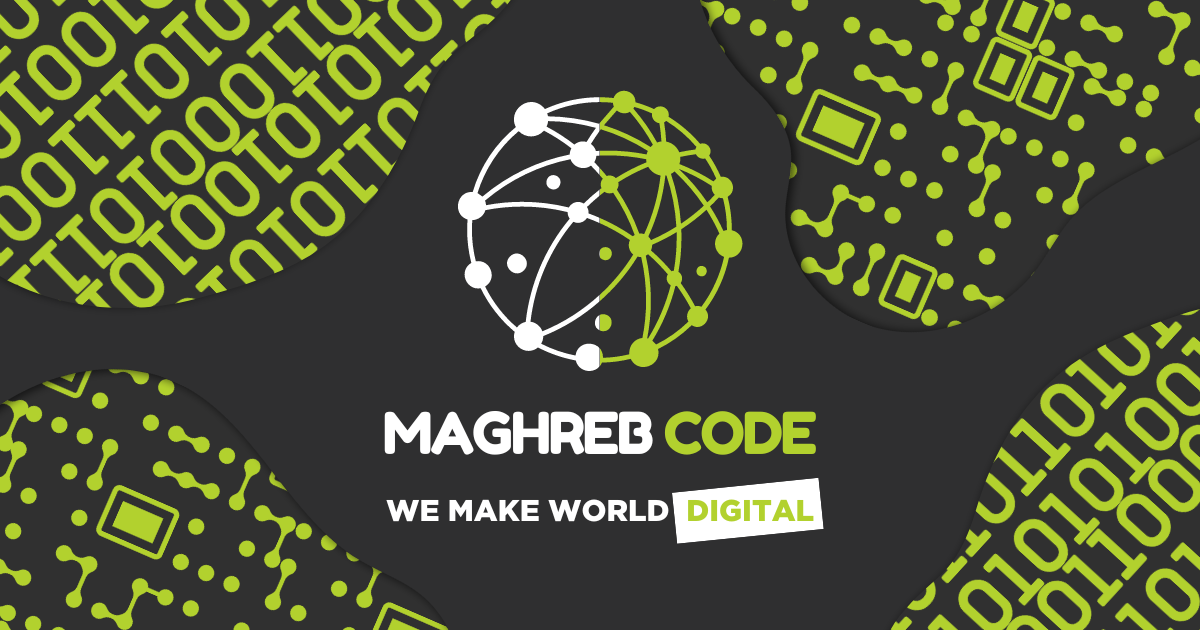
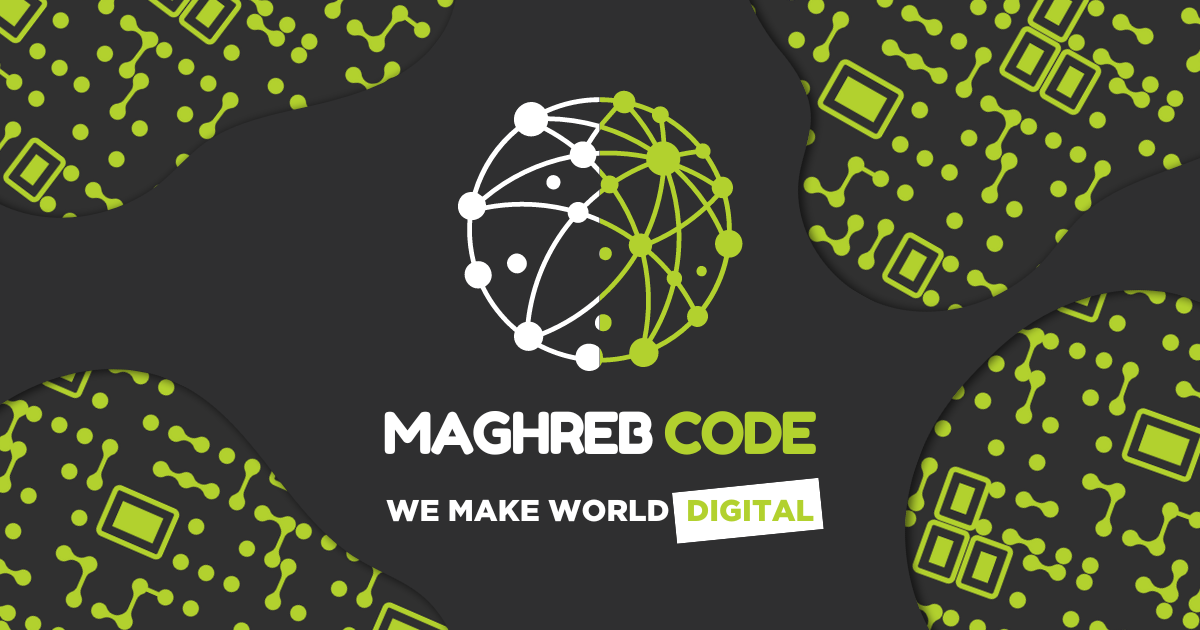
add project

diff --git a/src/components/pages/project.jsx b/src/components/pages/project.jsx
@@ -4,16 +4,16 @@ import Link from "next/link"
 
 export default function Project(){
     const project=[
-        {id:1,link:'https://explorem.net/en',code:['Nextjs','TailwindCSS','Figma','Prisma','MongoDB'],name:'Explorem SARL',description:'Explorem is a team of experts providing services in human resources, language training, nursing formation, and coaching on recruitment, management, and training, both in Morocco and abroad.',image:'/project/explorem.png',height:909,width:1920},
-        {id:2,link:'https://innovtech.vercel.app',code:['Nextjs','TailwindCSS','Figma'],name:'InnovTech',description:'InnovTech unifies UCA laboratories to achieve strategic goals, fostering collaboration among researchers. With 14 labs and 5 research teams from 6 UCA institutions across Marrakech, Safi, and Essaouira, InnovTech focuses on creating competitive research teams and establishing a benchmark hub for technological innovation both nationally and globally.',image:'/project/InnovTech.png',height:909,width:1920}
+        {id:2,link:'https://ecotech-depannage.vercel.app/',code:['Nextjs','TailwindCSS','Figma'],name:'Ecotech Depannage',description:"EcoTech Dépannage, votre expert en dépannage à Sarreguemines, France. Vitrier, serrurier, plombier, et électricien, disponibles 7J/7, 24h/24 pour des interventions d'urgence. Contactez-nous au +33 7 71 71 05 13 pour un service rapide.",image:'/project/ecotech-depannage.png',height:909,width:1920},
+        {id:1,link:'https://explorem.net/en',code:['Nextjs','TailwindCSS','Figma','Prisma','MongoDB'],name:'Explorem SARL',description:'Explorem is a team of experts providing services in human resources, language training, nursing formation, and coaching on recruitment, management, and training, both in Morocco and abroad.',image:'/project/explorem.png',height:909,width:1920}
 
     ]
     return(
-        <div id="Our-Project" className=" container flex flex-col gap-16">
-            <h2 className=" text-3xl lg:text-6xl text-center text-white font-semibold">Some Things We&apos;ve <span className=" text-[#B3D12F]">Built</span></h2>
+        <div id="Our-Project" className="  flex flex-col gap-16 py-14  bg-cover bg-blend-screen  bg-[url('/right.png')]">
+            <h2 className="  text-3xl lg:text-6xl text-center text-white font-semibold">Some Things We&apos;ve <span className=" text-[#B3D12F]">Built</span></h2>
             {
                 project.map((ele,index)=>(
-                    <div key={index} className=" flex flex-col-reverse even:lg:flex-row odd:lg:flex-row-reverse items-center justify-between gap-6 bg-[#1E1E1E] rounded p-4">
+                    <div key={index} className="container flex flex-col-reverse even:lg:flex-row odd:lg:flex-row-reverse items-center justify-between gap-6 bg-[#1E1E1E] rounded p-4">
                         <div className=" lg:w-1/2 flex flex-col items-center gap-8 ">
                             <h3 className=" text-2xl lg:text-4xl text-white font-semibold bg-[#B3D12F]  w-fit p-3">{ele.name}</h3>
                             <div className="text-white font-medium text-center lg:text-xl w-fit p-2 ">

diff --git a/src/components/pages/aboutUs.jsx b/src/components/pages/aboutUs.jsx
@@ -1,10 +1,10 @@
 import Image from "next/image";
-import bg from '/public/aboutUs/bg.png'
+import bg from '/public/aboutUs/bg1.png'
 export default function AboutUs(){
     return(
-        <div id="aboutUs" className="bg-[#B3D12F] z-20  flex flex-col items-center justify-center gap-8">
+        <div id="aboutUs" className="bg-[#B3D12F] z-20 py-14  flex flex-col items-center justify-center gap-8">
           
-            <div className=" p-8 container   flex flex-col lg:flex-row justify-between gap-16  items-center">
+            <div className=" p-8 container   flex flex-col xl:flex-row justify-between gap-16  items-center">
                 <Image 
                 src={bg} 
                 width={1000}
@@ -17,7 +17,7 @@ export default function AboutUs(){
                 alt="Maghreb Code"/>
                 <div className=" flex gap-4 flex-col  ">
                     <h2 className="bg-[#fff] text-[#B3D12F] text-center  p-2 font-bold text-3xl lg:text-7xl  capitalize">About Us</h2>
-                    <p className="  text-white  text-3xl  text-center lg:text-left    ">At Maghreb Code, we&apos;re a dedicated team of digital experts with a rich background in web development, logo creation, and web marketing. As a study group at OFPPT, we have honed our skills through various freelance projects, delivering high-quality websites and innovative solutions. In 2024, we established Maghreb Digital Company to expand our reach and continue offering exceptional digital services. Our expertise in crafting custom websites, developing mobile applications, and solving complex problems ensures your business gets the best digital solutions tailored to your needs.</p>
+                    <p className="  text-white  lg:text-2xl text-xl  text-center lg:text-left    ">At Maghreb Code, we&apos;re a dedicated team of digital experts with a rich background in web development, logo creation, and web marketing. As a study group at OFPPT, we have honed our skills through various freelance projects, delivering high-quality websites and innovative solutions. In 2024, we established Maghreb Digital Company to expand our reach and continue offering exceptional digital services. Our expertise in crafting custom websites, developing mobile applications, and solving complex problems ensures your business gets the best digital solutions tailored to your needs.</p>
                 </div>
 
         

diff --git a/src/components/pages/contact.jsx b/src/components/pages/contact.jsx
@@ -1,15 +1,14 @@
 import { Mail, Phone } from "lucide-react";
+import Image from "next/image";
 
 export default function Contact(){
     return(
-        <div id="contact" className=" flex  py-16 bg-[#B3D12F] items-center justify-center bg-repeat bg-[url('/iconAllService.png')] "
+        <div id="contact" className=" flex  py-16  items-center justify-center bg-cover bg-blend-screen  bg-[url('/bgbuttom.png')] "
           >
-            <div className="container">
-                <div className="  bg-[#1e1e1e] flex-col lg:flex-row w-full gap-16 py-16  flex p-8  justify-between items-center ">
+            <div className="container ">
+                <div className="  bg-[#1e1e1e] shadow-inner   bg-cover   bg-[url('/right.png')]  rounded-xl flex-col lg:flex-row w-full gap-16 py-16  flex p-8  justify-between items-center ">
                     <div className=" lg:w-1/2  font-bold flex flex-col items-center gap-2 text-white">
-                            <span className="text-7xl">we make </span>
-                            <span className="text-[#B3D12F] text-6xl" >digital</span>
-                            <span className="text-7xl">world</span>
+                            <Image src={'/contact/logo.png'} width={400} height={400} />
                     </div>
                     <form className="lg:w-1/2 flex flex-col w-full gap-4">
                             <input type="text" name="fullName" id="fullName" placeholder=" full name" className=" placeholder:font-semibold capitalize placeholder:text-white text-white px-4 h-14 rounded   border-[#B3D12F] border-2 bg-[#303030]" />

diff --git a/src/components/navbar/navbar.jsx b/src/components/navbar/navbar.jsx
@@ -41,7 +41,7 @@ export default function Navbar() {
 
     
     return (
-        <div className=" pb-52">
+        <div className=" pb-40">
             <div className="fixed z-30 right-0 left-0">
                 <div className="bg-[#B3D12F] p-4">
                     <div className="container flex flex-row justify-between">
@@ -52,7 +52,7 @@ export default function Navbar() {
                         </div>
                     </div>
                 </div>
-                <div className=" py-4 bg-[#303030]">
+                <div className=" py-4 bg-[#303030] ">
                     <div className="container flex justify-between items-center">
                         <Link href={'/'} className=" flex gap-4 items-center justify-center"><Image src={'/logo.svg'} width={80} height={80} priority alt="Services Reparation" /> <h1 className="flex flex-col font-semibold text-2xl text-white">Maghreb  <strong className="text-[#B3D12F] ">Code</strong></h1></Link>
                         <div className="bg-[#B3D12F] p-1  xl:hidden block ">

diff --git a/src/components/pages/homepage.jsx b/src/components/pages/homepage.jsx
@@ -8,7 +8,7 @@ export default function Homepage(){
     };
     return(
        
-        <div  id="home" className="flex flex-col   gap-14 items-center  h-screen    ">
+        <div  id="home" className="flex flex-col  pt-24  gap-14 items-center  h-screen    bg-cover bg-blend-screen  bg-[url('/bgtop.png')]  ">
            
                 <div className="flex flex-col justify-center items-center  gap-6 ">
                     <h2 className=" text-center font-bold text-2xl lg:text-5xl text-white flex flex-col gap-4  items-center">Elevate Your Business with Maghreb Code <span className=" bg-[#B3D12F] py-2 px-4 w-fit">Web & Mobile Solutions</span>    </h2>

diff --git a/src/app/page.js b/src/app/page.js
@@ -9,7 +9,7 @@ import Image from "next/image";
 
 export default function Home() {
   return (
-    <div className=" flex flex-col  gap-16">
+    <div className=" flex flex-col ">
       <Homepage/>
       {/* <Membres/> */}
       <AboutUs/>
